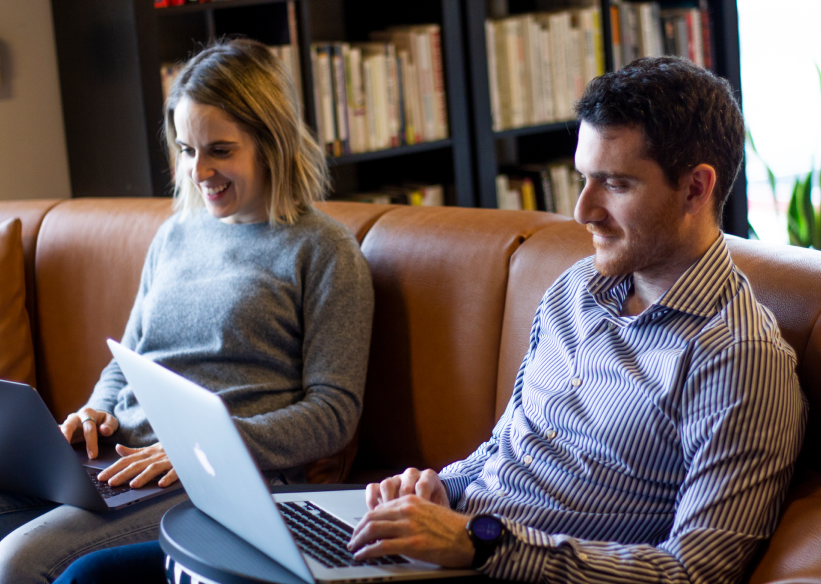
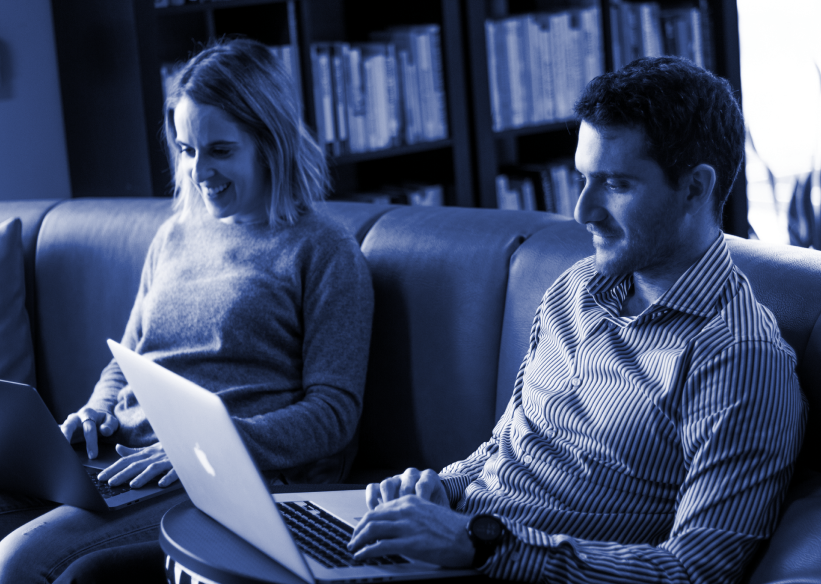
Update careers join image

diff --git a/src/sections/CareersJoin/index.js b/src/sections/CareersJoin/index.js
@@ -61,7 +61,7 @@ const CareersJoin = ({ data }) => (
       </div>
 
       <div styleName="image">
-        <ParallaxEffect image={data.meeting.image.fluid} alt="meeting" />
+        <ParallaxEffect image={data.summercamp.image.fluid} alt="meeting" />
         <div styleName="link-mobile">
           <a href="/company">
             <Typography variant="small-body" weight="bold" color="klein-blue">
@@ -76,7 +76,7 @@ const CareersJoin = ({ data }) => (
 
 CareersJoin.propTypes = {
   data: PropTypes.shape({
-    meeting: PropTypes.shape({
+    summercamp: PropTypes.shape({
       image: PropTypes.shape({
         fluid: PropTypes.shape({}).isRequired,
       }).isRequired,

diff --git a/src/sections/CareersJoin/withQuery.js b/src/sections/CareersJoin/withQuery.js
@@ -3,7 +3,7 @@ import { StaticQuery, graphql } from "gatsby";
 
 const query = graphql`
   query {
-    meeting: file(relativePath: { eq: "images/meeting.png" }) {
+    summercamp: file(relativePath: { eq: "images/team-summercamp.png" }) {
       image: childImageSharp {
         fluid(maxWidth: 1000, quality: 85) {
           ...GatsbyImageSharpFluid_withWebp
